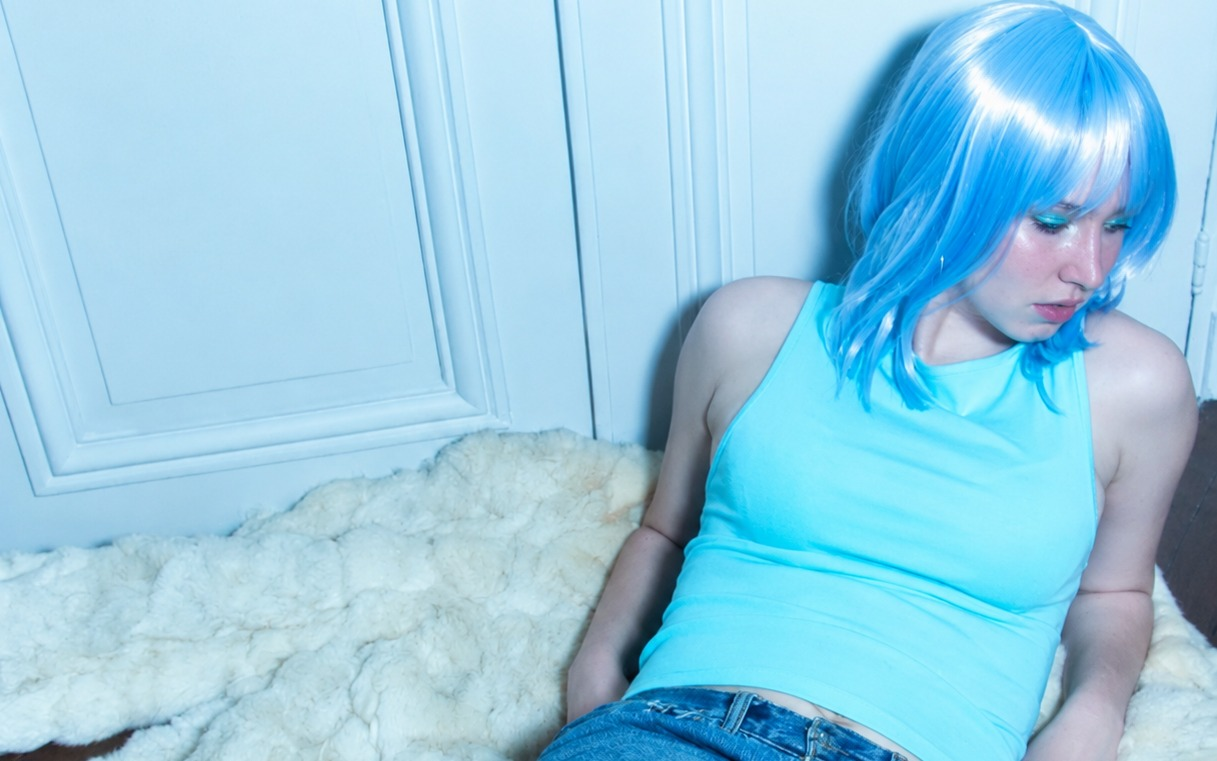
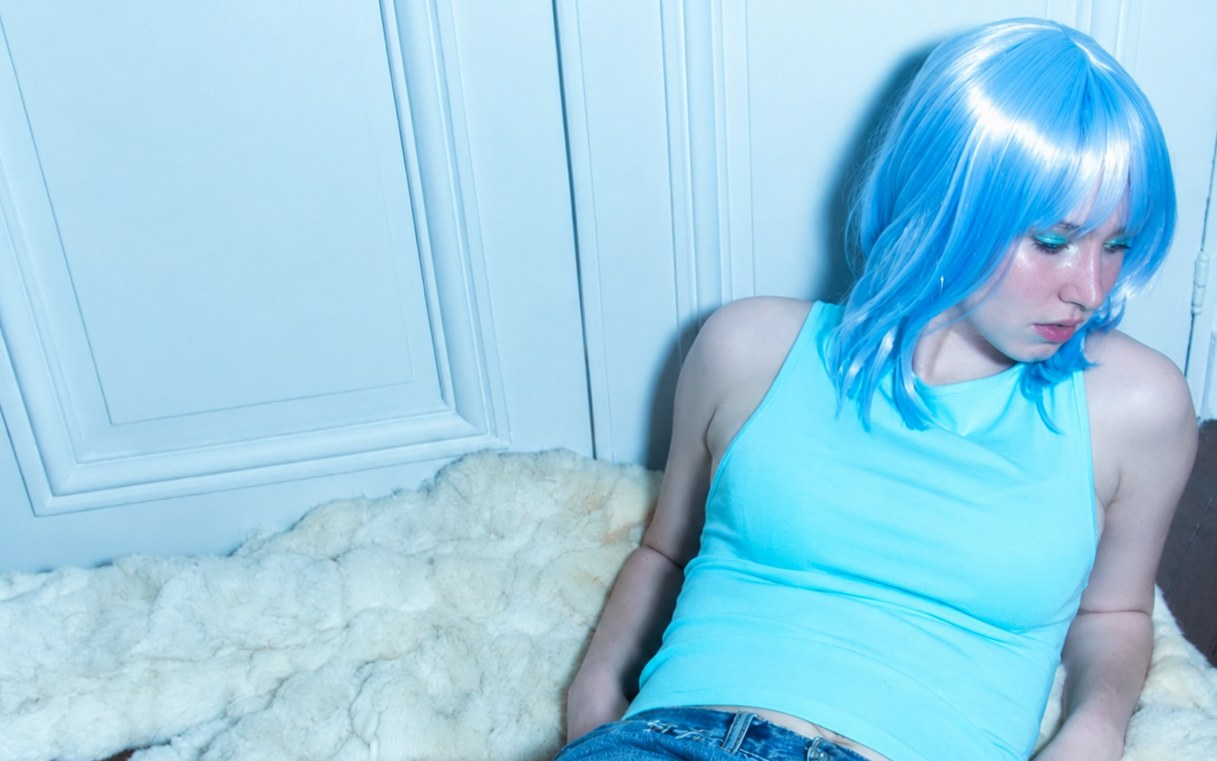
Textes fluides, définitions commençant par l'objet, cadrage Suze aligné, images chargées à l'ouverture
- paragraphes et définitions suivent la largeur de l'écran (alignés sur les images, plafond 1500 px)
- définitions sous les titres : An artist that..., A fashion brand..., A café in London that... (anglais et français, aperçus et pages projets)
- suze-1 recadrée depuis l'original : même fenêtre relative que suze-2 (sommet de la tête à 2,37 % contre 2,46 %)
- les images différées de la page qui s'ouvre passent en chargement immédiat : plus de zones vides au chargement d'un projet

diff --git a/index.html b/index.html
@@ -99,10 +99,10 @@
       .project-page { padding-bottom: 56px; }
       .pp-head, .pp-label, .pp-text { padding-left: var(--gutter); padding-right: var(--gutter); }
       .pp-name { margin: 0; font-family: "Titan One", "Arial Black", Arial, sans-serif; font-size: 24px; font-weight: 400; line-height: 1; letter-spacing: .005em; text-transform: uppercase; }
-      .pp-desc { margin: 10px 0 0; max-width: 720px; font-size: clamp(16px, 1.6vw, 18px); line-height: 1.4; letter-spacing: -.02em; color: var(--muted); }
+      .pp-desc { margin: 10px 0 0; max-width: min(100%, 1500px); font-size: clamp(16px, 1.6vw, 18px); line-height: 1.4; letter-spacing: -.02em; color: var(--muted); }
       .pp-block { margin: 52px 0 0; }
-      .pp-label { margin: 0 0 12px; max-width: 720px; font-family: Oswald, Arial Narrow, sans-serif; font-size: 15px; font-weight: 600; line-height: 1.35; letter-spacing: .05em; text-transform: uppercase; color: var(--ink); }
-      .pp-text { margin: 0; max-width: 720px; font-size: clamp(16px, 1.5vw, 18px); line-height: 1.55; letter-spacing: -.01em; }
+      .pp-label { margin: 0 0 12px; max-width: min(100%, 1500px); font-family: Oswald, Arial Narrow, sans-serif; font-size: 15px; font-weight: 600; line-height: 1.35; letter-spacing: .05em; text-transform: uppercase; color: var(--ink); }
+      .pp-text { margin: 0; max-width: min(100%, 1500px); font-size: clamp(16px, 1.5vw, 18px); line-height: 1.55; letter-spacing: -.01em; }
       .pp-figure { margin: 26px 0 0; padding: 0 var(--gutter); }
       .pp-media { position: relative; overflow: hidden; background: #ececea; aspect-ratio: 16 / 10; }
       .pp-media.wide { aspect-ratio: 21 / 9; }
@@ -152,15 +152,15 @@
 
       <section class="view" id="artists" aria-labelledby="artists-title">
         <h1 class="category" id="artists-title">Artists</h1>
-        <article class="project"><a class="project-link" href="/artists/neen" aria-label="View the neen project"><div class="project-gallery"><div class="project-visual"><img class="photo raw" src="assets/neen-1.jpg" alt="neen, visual 1" loading="lazy"></div><div class="project-visual"><img class="photo raw" src="assets/neen-2.jpg" alt="neen, visual 2" loading="lazy"></div></div><div class="project-meta"><h2 class="project-name">Neen</h2><p class="project-description">Indie pop weaving human complexity with the organic world.</p></div></a></article>
-        <article class="project"><a class="project-link" href="/artists/eliott-ray" aria-label="View the Eliott Ray project"><div class="project-gallery"><div class="project-visual"><img class="photo" src="assets/eliott-1.jpg" alt="Eliott Ray, visual 1" loading="lazy"></div><div class="project-visual"><img class="photo" src="assets/eliott-2.jpg" alt="Eliott Ray, visual 2" loading="lazy"></div></div><div class="project-meta"><h2 class="project-name">Eliott Ray</h2><p class="project-description">Intimate, electric and unapologetically sensitive alternative pop.</p></div></a></article>
-        <article class="project"><a class="project-link" href="/artists/suze" aria-label="View the SuZe project"><div class="project-gallery"><div class="project-visual"><img class="photo raw" src="assets/suze-1.jpg" alt="SuZe, visual 1" loading="lazy"></div><div class="project-visual"><img class="photo raw" src="assets/suze-2.jpg" alt="SuZe, visual 2" loading="lazy"></div></div><div class="project-meta"><h2 class="project-name">Suze</h2><p class="project-description">Blondie weirdness with a cosmovintage soul, wrapped in ultra-pop.</p></div></a></article>
+        <article class="project"><a class="project-link" href="/artists/neen" aria-label="View the neen project"><div class="project-gallery"><div class="project-visual"><img class="photo raw" src="assets/neen-1.jpg" alt="neen, visual 1" loading="lazy"></div><div class="project-visual"><img class="photo raw" src="assets/neen-2.jpg" alt="neen, visual 2" loading="lazy"></div></div><div class="project-meta"><h2 class="project-name">Neen</h2><p class="project-description">An artist that blends indie pop with human complexity and the organic world.</p></div></a></article>
+        <article class="project"><a class="project-link" href="/artists/eliott-ray" aria-label="View the Eliott Ray project"><div class="project-gallery"><div class="project-visual"><img class="photo" src="assets/eliott-1.jpg" alt="Eliott Ray, visual 1" loading="lazy"></div><div class="project-visual"><img class="photo" src="assets/eliott-2.jpg" alt="Eliott Ray, visual 2" loading="lazy"></div></div><div class="project-meta"><h2 class="project-name">Eliott Ray</h2><p class="project-description">An artist that makes intimate, electric and unapologetically sensitive alternative pop.</p></div></a></article>
+        <article class="project"><a class="project-link" href="/artists/suze" aria-label="View the SuZe project"><div class="project-gallery"><div class="project-visual"><img class="photo raw" src="assets/suze-1.jpg" alt="SuZe, visual 1" loading="lazy"></div><div class="project-visual"><img class="photo raw" src="assets/suze-2.jpg" alt="SuZe, visual 2" loading="lazy"></div></div><div class="project-meta"><h2 class="project-name">Suze</h2><p class="project-description">An artist that wraps Blondie weirdness and a cosmovintage soul in ultra-pop.</p></div></a></article>
       </section>
 
       <section class="view" id="brands" aria-labelledby="brands-title">
         <h1 class="category" id="brands-title">Brands</h1>
-        <article class="project"><a class="project-link" href="/brands/baala" aria-label="View the Baala project"><div class="project-gallery"><div class="project-visual"><img class="photo" src="assets/baala-1.jpg" alt="Baala, visual 1" loading="lazy"></div><div class="project-visual"><img class="photo" src="assets/baala-2.jpg" alt="Baala, visual 2" loading="lazy"></div></div><div class="project-meta"><h2 class="project-name">Baala</h2><p class="project-description">Contemporary fashion rooted in Tunisian heritage and the urban life of Paris and London.</p></div></a></article>
-        <article class="project"><a class="project-link" href="/brands/pollen" aria-label="View the pollen project"><div class="project-gallery"><div class="project-visual"><img class="photo" src="assets/pollen-1.jpg" alt="pollen, café interior with the wooden counter and embroidered door panel" loading="lazy"></div><div class="project-visual"><img class="photo" src="assets/pollen-2.jpg" alt="pollen, room with the pink curtain, bottles and wooden tables" loading="lazy"></div></div><div class="project-meta"><h2 class="project-name">Pollen</h2><p class="project-description">A café with Danish design influences, where the charm of local organic materials, wood and traditional embroidered tablecloths, meets quintessentially minimalist design.</p></div></a></article>
+        <article class="project"><a class="project-link" href="/brands/baala" aria-label="View the Baala project"><div class="project-gallery"><div class="project-visual"><img class="photo" src="assets/baala-1.jpg" alt="Baala, visual 1" loading="lazy"></div><div class="project-visual"><img class="photo" src="assets/baala-2.jpg" alt="Baala, visual 2" loading="lazy"></div></div><div class="project-meta"><h2 class="project-name">Baala</h2><p class="project-description">A fashion brand rooted in Tunisian heritage and the urban life of Paris and London.</p></div></a></article>
+        <article class="project"><a class="project-link" href="/brands/pollen" aria-label="View the pollen project"><div class="project-gallery"><div class="project-visual"><img class="photo" src="assets/pollen-1.jpg" alt="pollen, café interior with the wooden counter and embroidered door panel" loading="lazy"></div><div class="project-visual"><img class="photo" src="assets/pollen-2.jpg" alt="pollen, room with the pink curtain, bottles and wooden tables" loading="lazy"></div></div><div class="project-meta"><h2 class="project-name">Pollen</h2><p class="project-description">A café in London that blends Danish minimalism with local organic materials, wood and traditional embroidered tablecloths.</p></div></a></article>
       </section>
 
       <section class="view" id="contact" aria-labelledby="contact-title">
@@ -198,7 +198,7 @@
         <div class="project-page">
           <header class="pp-head">
             <h1 class="pp-name" id="pp-neen-title">Neen</h1>
-            <p class="pp-desc">Indie pop weaving human complexity with the organic world.</p>
+            <p class="pp-desc">An artist that blends indie pop with human complexity and the organic world.</p>
           </header>
           <section class="pp-block">
             <h2 class="pp-label">THE STARTING POINT</h2>
@@ -222,7 +222,7 @@
         <div class="project-page">
           <header class="pp-head">
             <h1 class="pp-name" id="pp-eliott-title">Eliott Ray</h1>
-            <p class="pp-desc">Intimate, electric and unapologetically sensitive alternative pop.</p>
+            <p class="pp-desc">An artist that makes intimate, electric and unapologetically sensitive alternative pop.</p>
           </header>
           <section class="pp-block">
             <h2 class="pp-label">THE STARTING POINT</h2>
@@ -246,7 +246,7 @@
         <div class="project-page">
           <header class="pp-head">
             <h1 class="pp-name" id="pp-suze-title">Suze</h1>
-            <p class="pp-desc">Ultrapop with a cosmovintage soul.</p>
+            <p class="pp-desc">An artist that wraps Blondie weirdness and a cosmovintage soul in ultra-pop.</p>
           </header>
           <section class="pp-block">
             <h2 class="pp-label">THE STARTING POINT</h2>
@@ -270,7 +270,7 @@
         <div class="project-page">
           <header class="pp-head">
             <h1 class="pp-name" id="pp-baala-title">Baala</h1>
-            <p class="pp-desc">Contemporary fashion rooted in Tunisian heritage and urban life.</p>
+            <p class="pp-desc">A fashion brand rooted in Tunisian heritage and the urban life of Paris and London.</p>
           </header>
           <section class="pp-block">
             <h2 class="pp-label">THE STARTING POINT</h2>
@@ -294,7 +294,7 @@
         <div class="project-page">
           <header class="pp-head">
             <h1 class="pp-name" id="pp-pollen-title">Pollen</h1>
-            <p class="pp-desc">Danish-inspired minimalism meets the warmth of local craft.</p>
+            <p class="pp-desc">A café in London that blends Danish minimalism with local organic materials, wood and traditional embroidered tablecloths.</p>
           </header>
           <section class="pp-block">
             <h2 class="pp-label">THE STARTING POINT</h2>
@@ -327,14 +327,11 @@
         "Chloé Bastianon, home": "Chloé Bastianon, accueil",
         "Chloé Bastianon, portfolio": "Portfolio de Chloé Bastianon",
         "Chloé Bastianon, portfolio: identity strategy & creative direction.": "Portfolio de Chloé Bastianon : stratégie d'identité et direction créative.",
-        "Indie pop weaving human complexity with the organic world.": "Une pop indé qui tisse la complexité humaine et le monde organique.",
-        "Intimate, electric and unapologetically sensitive alternative pop.": "Une pop alternative intime, électrique et sensible sans excuses.",
-        "Blondie weirdness with a cosmovintage soul, wrapped in ultra-pop.": "Une étrangeté blonde à l'âme cosmovintage, enveloppée d'ultrapop.",
-        "Contemporary fashion rooted in Tunisian heritage and the urban life of Paris and London.": "Une mode contemporaine ancrée dans l'héritage tunisien et la vie urbaine de Paris et de Londres.",
-        "A café with Danish design influences, where the charm of local organic materials, wood and traditional embroidered tablecloths, meets quintessentially minimalist design.": "Un café aux influences nordiques, où le charme des matières locales et organiques, bois et nappes brodées traditionnelles, rencontre un design minimaliste par excellence.",
-        "Ultrapop with a cosmovintage soul.": "Ultrapop à l'âme cosmovintage.",
-        "Contemporary fashion rooted in Tunisian heritage and urban life.": "Une mode contemporaine ancrée dans l'héritage tunisien et la vie urbaine.",
-        "Danish-inspired minimalism meets the warmth of local craft.": "Le minimalisme nordique à la rencontre de la chaleur de l'artisanat local.",
+        "An artist that blends indie pop with human complexity and the organic world.": "Un artiste qui tisse une pop indé entre complexité humaine et monde organique.",
+        "An artist that makes intimate, electric and unapologetically sensitive alternative pop.": "Un artiste qui signe une pop alternative intime, électrique et sensible sans excuses.",
+        "An artist that wraps Blondie weirdness and a cosmovintage soul in ultra-pop.": "Un artiste qui enveloppe une étrangeté blonde et une âme cosmovintage dans de l'ultrapop.",
+        "A fashion brand rooted in Tunisian heritage and the urban life of Paris and London.": "Une marque de mode ancrée dans l'héritage tunisien et la vie urbaine de Paris et de Londres.",
+        "A café in London that blends Danish minimalism with local organic materials, wood and traditional embroidered tablecloths.": "Un café à Londres qui mêle minimalisme nordique, matières locales et organiques, bois et nappes brodées traditionnelles.",
         "THE STARTING POINT": "LE PROJET AU DÉPART",
         "EXPLORING THE EXISTING UNIVERSE AND INTENTIONS": "EXPLORATION DE L'UNIVERS EXISTANT ET DES INTENTIONS",
         "EMBODYING AND AFFIRMING THE UNIVERSE": "INCARNATION ET AFFIRMATION DE L'UNIVERS",
@@ -485,6 +482,10 @@
         });
         if (!found) { id = 'home'; document.getElementById('home').classList.add('is-open'); }
         var view = document.getElementById(id);
+        // Les images différées de la page qui s'ouvre sont chargées tout de suite
+        if (view) {
+          view.querySelectorAll('img[loading="lazy"]').forEach(function (img) { img.loading = 'eager'; });
+        }
         document.title = (view && view.getAttribute('data-title')) || 'Chloé Bastianon, Portfolio';
         document.body.classList.toggle('on-home', id === 'home');
         backToHeader();
